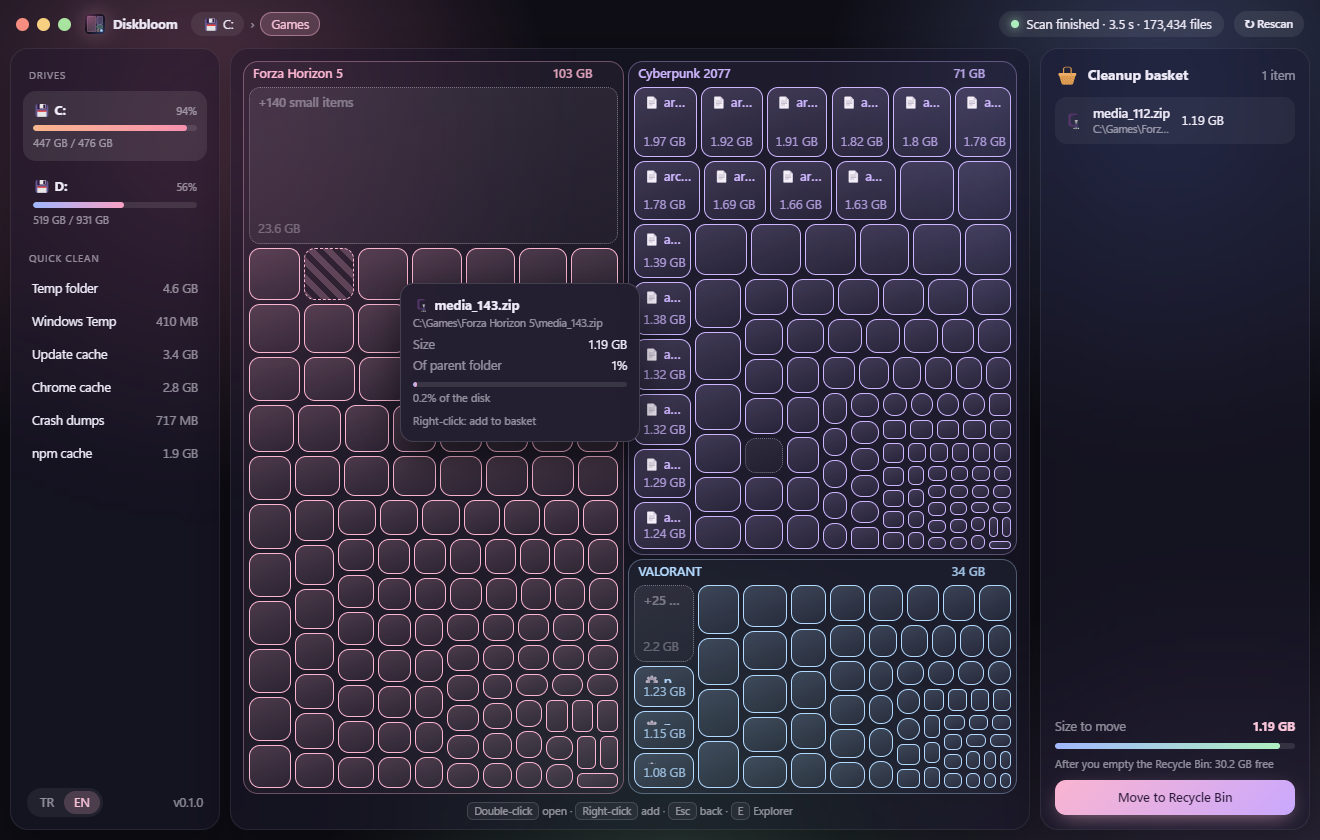
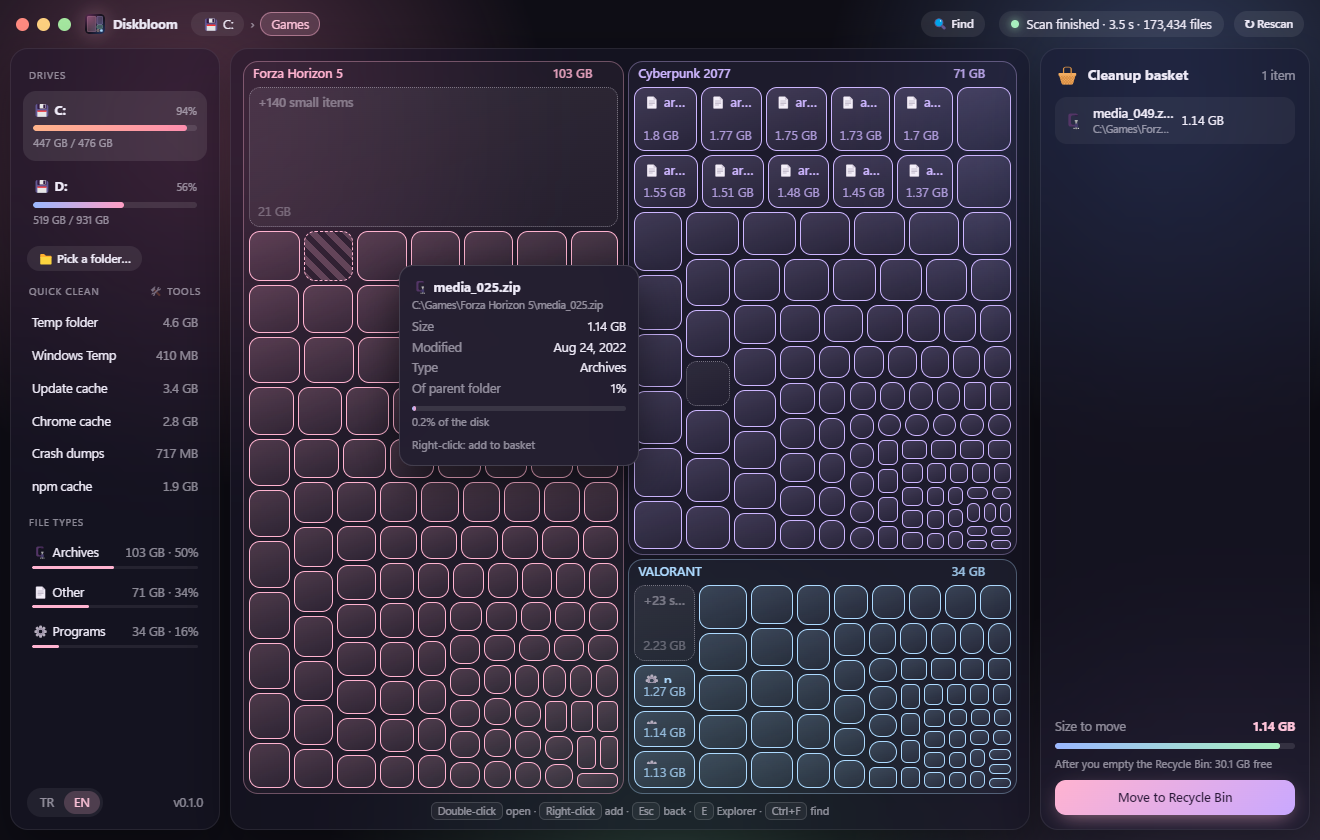
Document scan comparison and refresh the README screenshots
The README lists the comparison with the last scan and shows two new
screenshots: one file type lit up on the map, and the find panel with the
largest files. capture.mjs records both in demo mode. The design notes
record the snapshot rules. The demo GIF is unchanged, because ffmpeg is
not installed on this machine.

diff --git a/README.md b/README.md
@@ -22,6 +22,7 @@ A pastel, animated disk space visualizer and cleaner for Windows, in the spirit 
 - **Zoom into any folder.** Double-click a tile and the map flies into it. Press <kbd>Esc</kbd> or use the path pills to go back.
 - **File types.** The side panel lists what fills the open folder: video, images, audio, archives, disk images, programs, documents, code and other. Click a type and only its tiles stay bright on the map.
 - **Find and largest files.** <kbd>Ctrl</kbd>+<kbd>F</kbd> lists the largest files in the open folder. Filter by name or a pattern (`*.iso`), type, size and age, or list folders where nothing changed for years.
+- **What changed since the last scan.** Rescan a drive or folder and Diskbloom lists the folders that grew or shrank, with the total change.
 - **Floating details.** A glass tooltip follows the mouse with size, item and file counts, and the share of the parent folder and the disk.
 - **Cleanup basket.** Right-click tiles (or press <kbd>+</kbd>) to collect files and folders from anywhere on the drive, then move them all at once.
 - **Safe by design.**
@@ -37,6 +38,8 @@ A pastel, animated disk space visualizer and cleaner for Windows, in the spirit 
 <p align="center">
   <img src="docs/media/overview.png" width="49%" alt="Overview of a scanned drive">
   <img src="docs/media/basket.png" width="49%" alt="A folder opened with an item in the cleanup basket">
+  <img src="docs/media/types.png" width="49%" alt="Video files lit up on the map from the file types list">
+  <img src="docs/media/find.png" width="49%" alt="The find panel listing the largest files of the drive">
 </p>
 
 ## Use it

diff --git a/docs/design.md b/docs/design.md
@@ -60,6 +60,10 @@ macOS-like look are core requirements, not polish.
   (about 0.2 s for 1.3 million files) and returns only the largest 200 matches plus the count and total.
   A folder's age is the age of its newest file; a matching folder is listed once, not again for
   every folder inside it.
+- Each complete scan keeps a snapshot of the folders of 10 MB and up (about 0.7 MB for a full system
+  drive) and compares it with the previous snapshot of the same root. Only changes of 50 MB and up
+  are listed, and a parent is left out when one listed folder inside it explains 80% of its change.
+  A rescan is the only trigger; there is no scheduled scan.
 
 ## Not in this version
 
